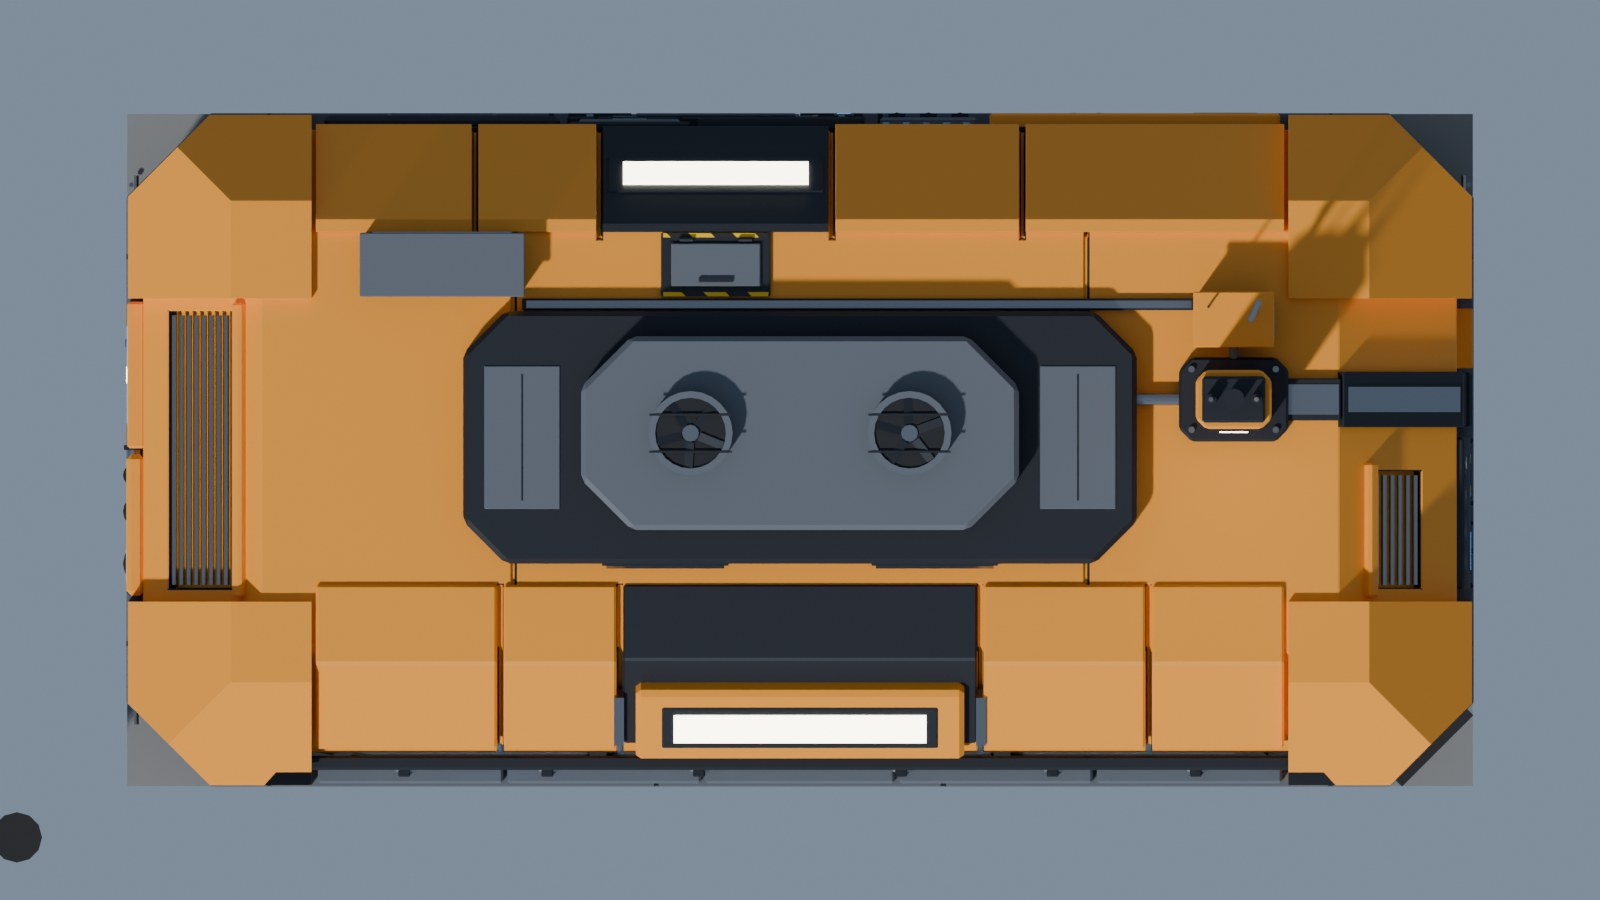
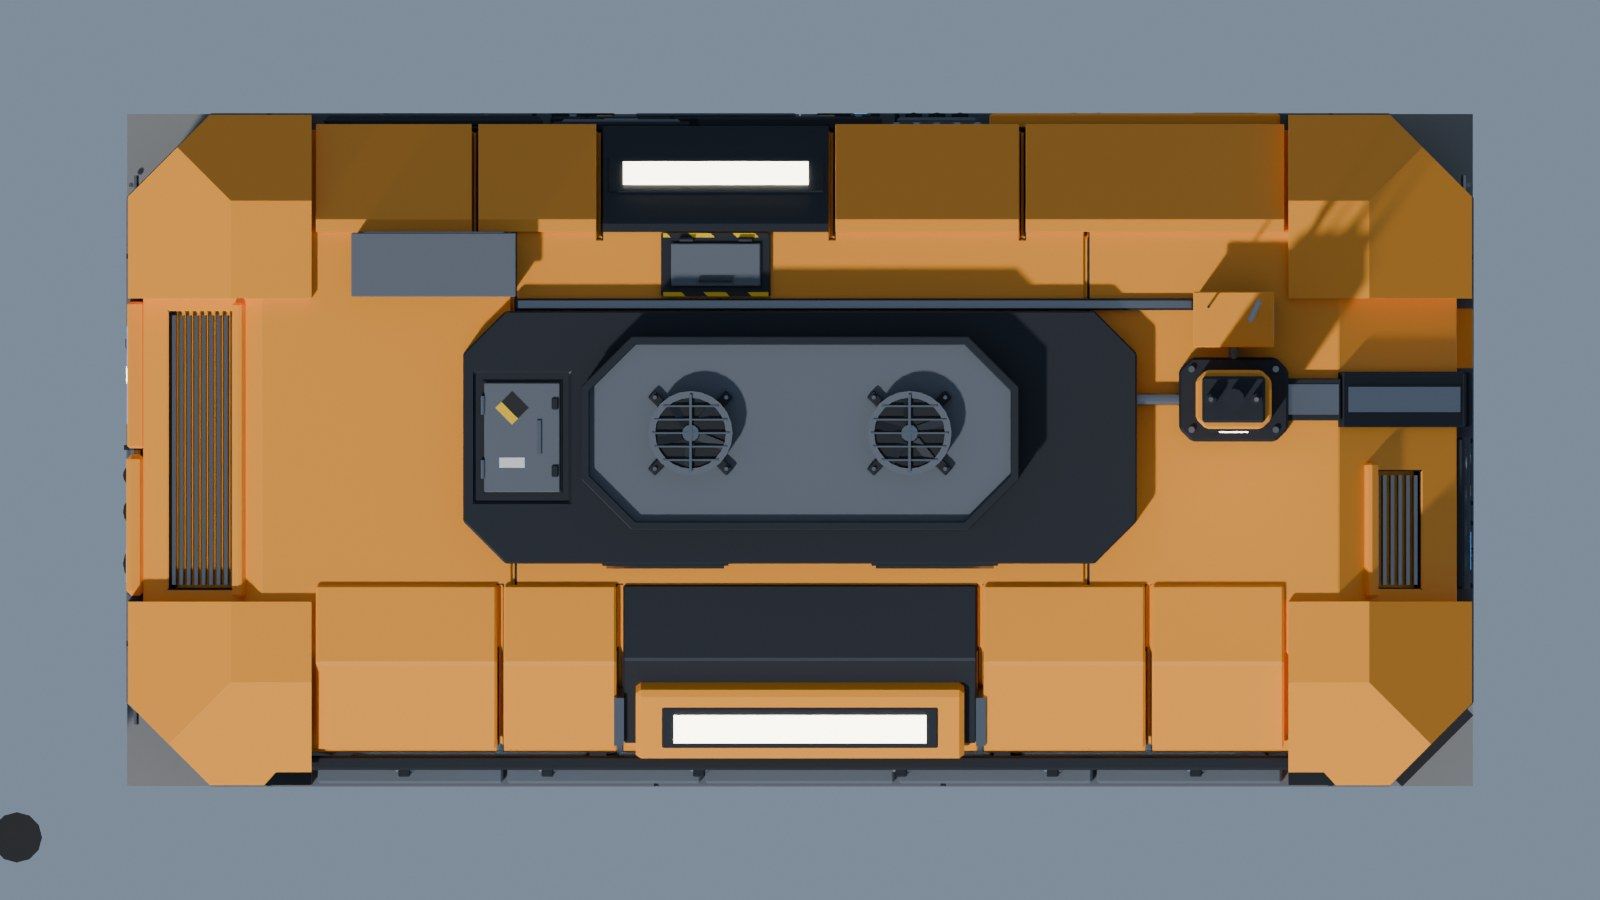
art: Command Center previews of the changed views (back, roof, top)
Claude-Session: https://claude.ai/code/session_013wQgHAdy8C5AxfwbzX9RGJ

diff --git a/art/command_center/README.md b/art/command_center/README.md
@@ -126,7 +126,7 @@ blender -b -P build_model.py -- --out ../export --render ../renders/stage3
 | `blender/build_model.py` | **текущая модель**: детализированный корпус (этап 3) + интерьер |
 | `blender/build_blockout.py` | блокаут этапа 1, сохранён для сравнения |
 | `export/` | FBX для UE, GLB для просмотра: `SM_CommandCenter*` и `SM_CommandCenter_Blockout*` |
-| `renders/turnaround/` | облёт: 8 перспективных ракурсов через 45° (`T000_front` … `T315_front_left`), вид сверху, 4 ортогональных вида, сводные листы `00_turnaround_sheet` и `00_ortho_sheet` (64 сэмпла) |
+| `renders/turnaround/` | облёт: 8 перспективных ракурсов через 45° (`T000_front` … `T315_front_left`), вид сверху, 4 ортогональных вида, сводные листы `00_turnaround_sheet` и `00_ortho_sheet` (64 сэмпла). **Снят до прохода 10** (старая дверь и вентблок крыши); после прохода 10 обновлены только `stage3/04_back`, `13_roof`, `06_top`. Полный перерендер — по запросу |
 | `renders/stage3/`, `renders/blockout/` | 3/4 спереди, сзади, слева и справа, вид на крышу, четыре ортогональных вида, крупные планы узла связи и цоколя, сверху, интерьер, сравнения с концептом, крупный план фронта |
 | `reference/` | пакет референсов (JPG ≤ 2400 px, без изменений по содержанию) и `README_modeling.md` |
 
